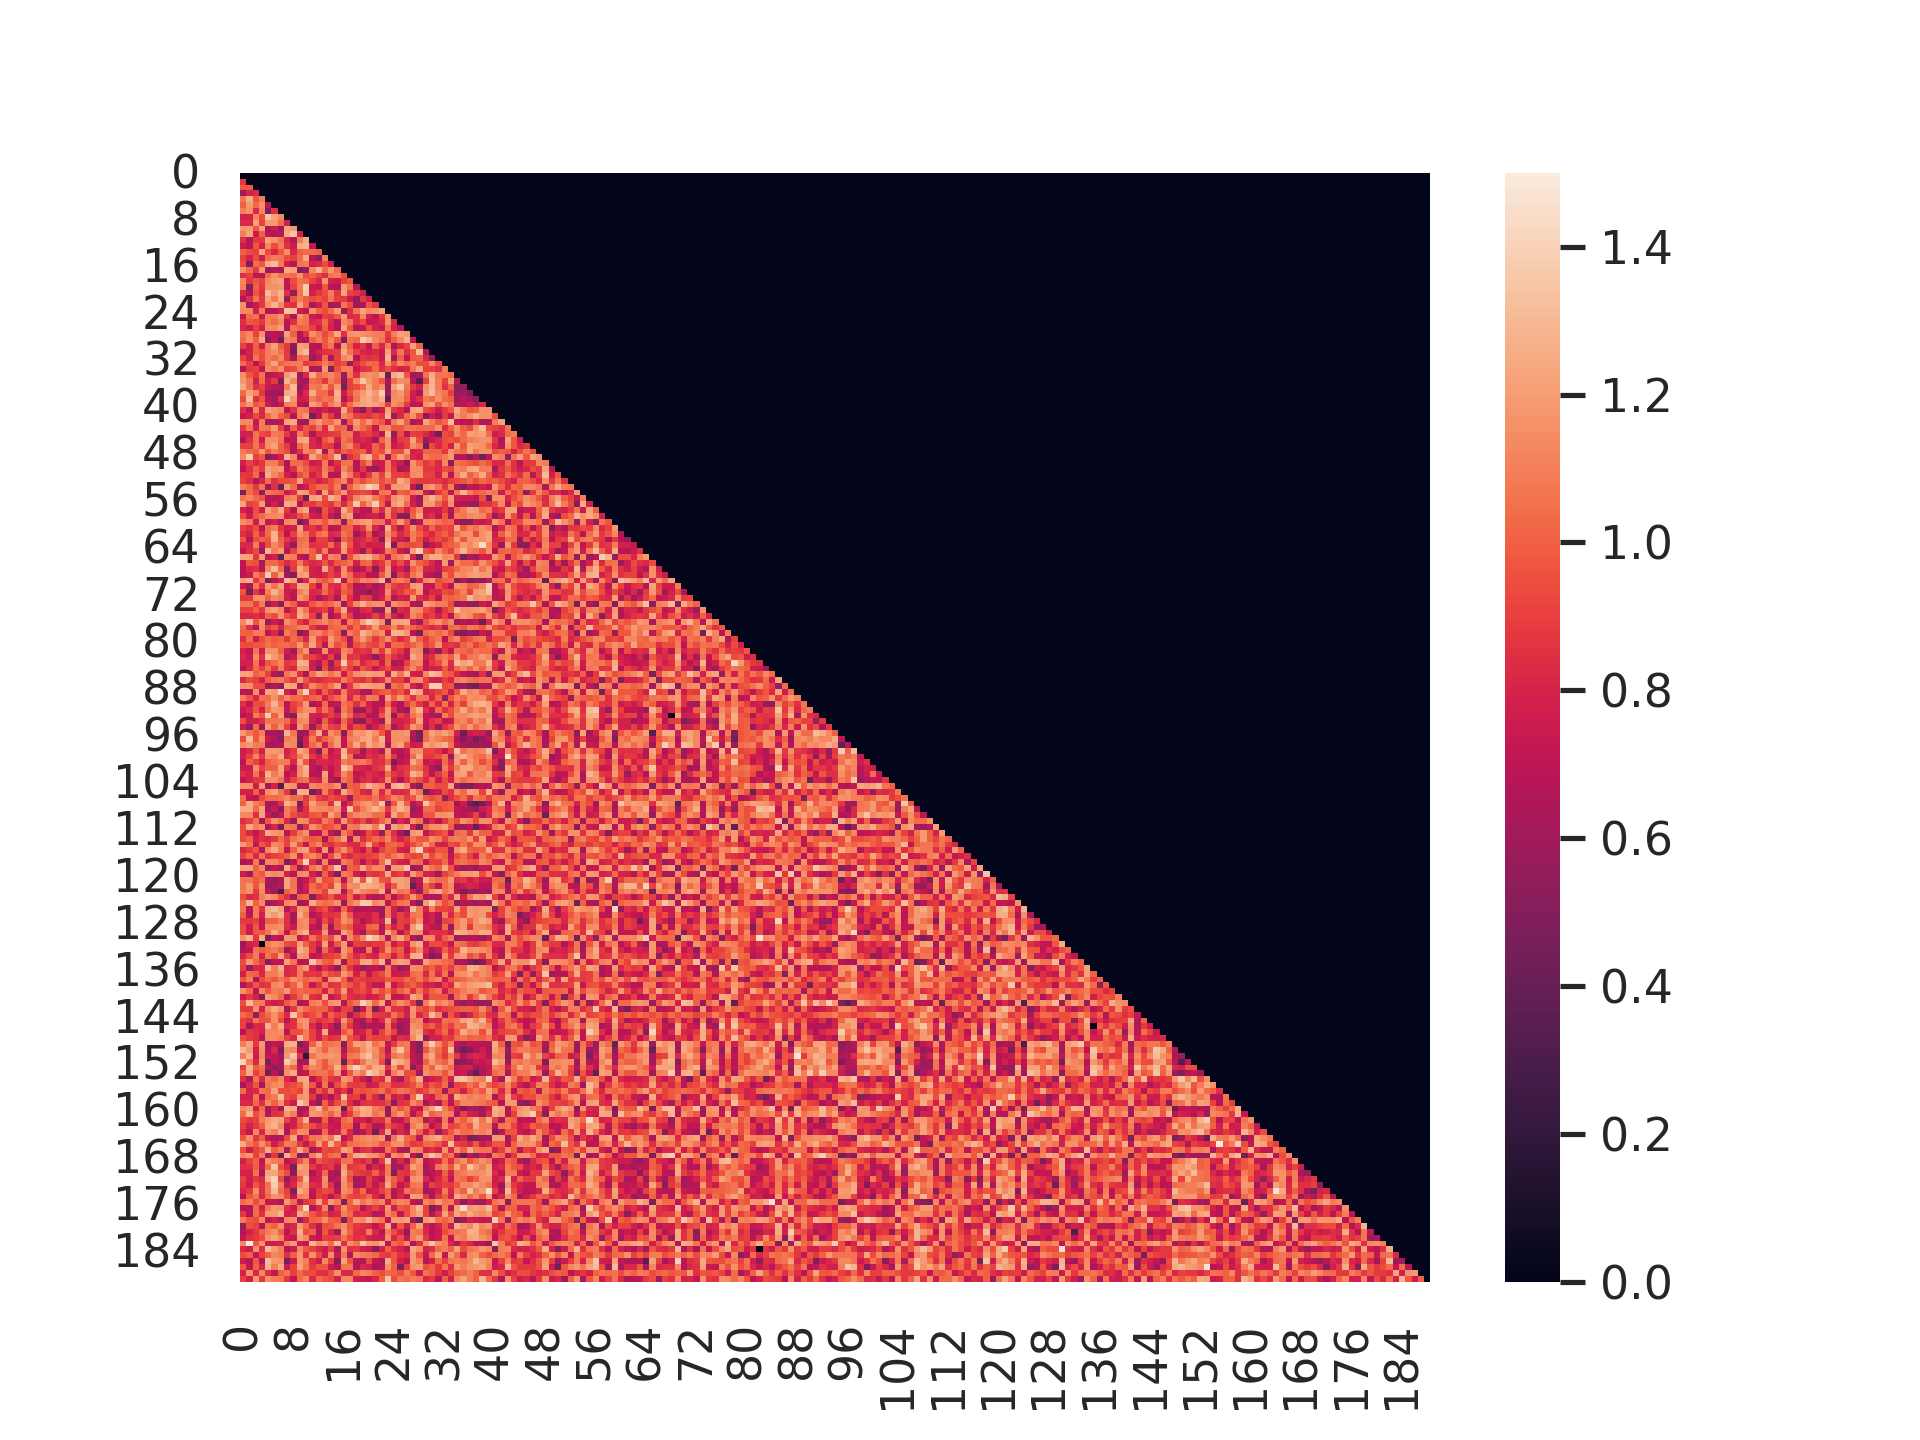
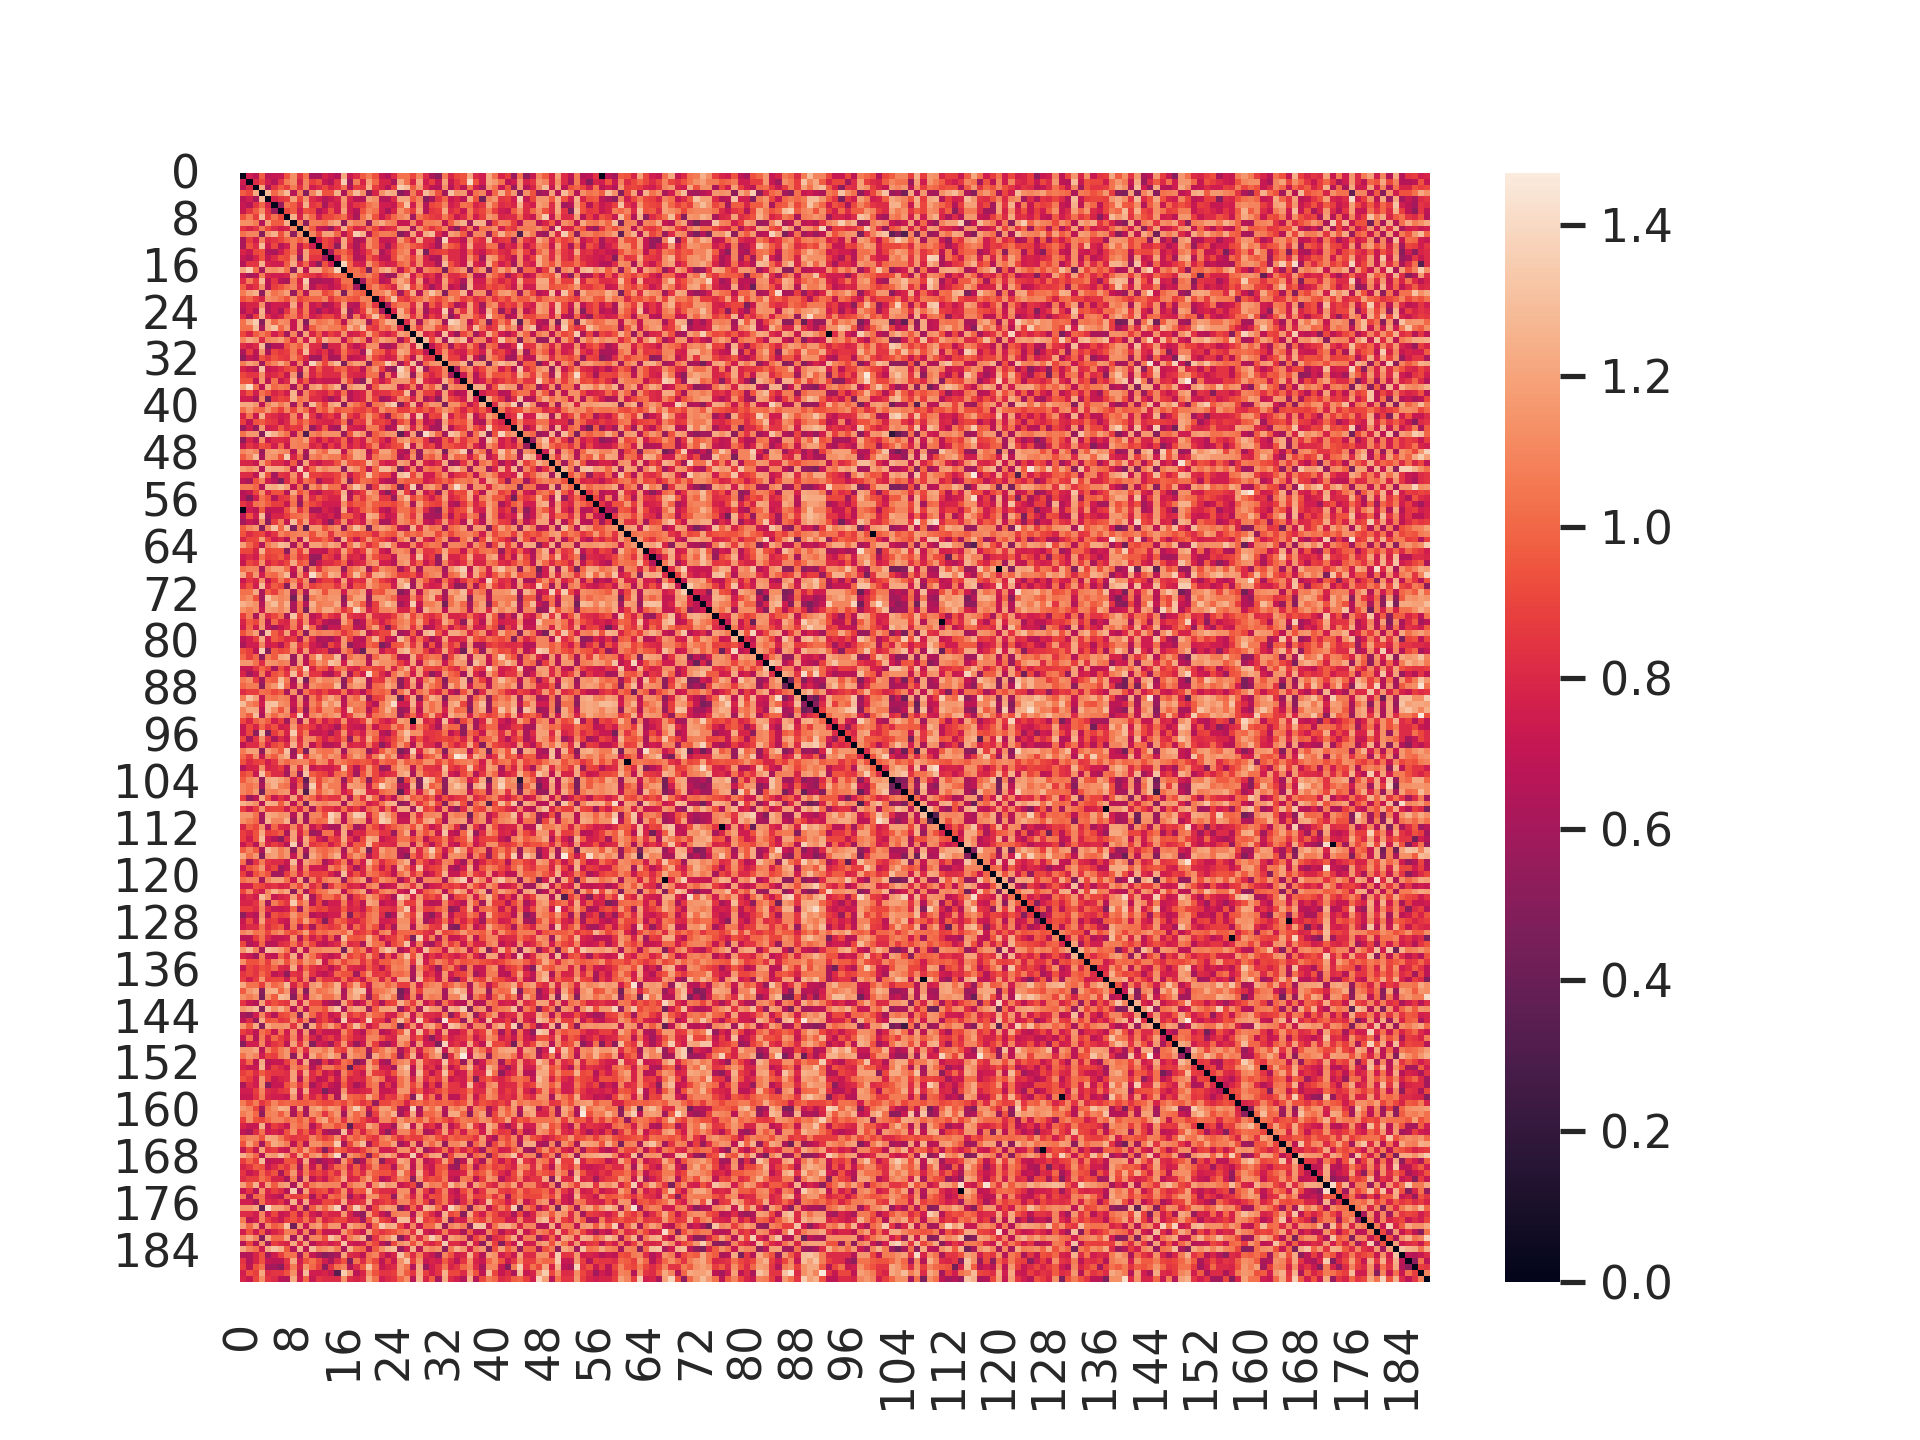
need to collect results dist expander

diff --git a/dist_expander/dist_expander.py b/dist_expander/dist_expander.py
@@ -93,14 +93,26 @@ class DistExpander:
     def run(self):
         for iter in range(self.max_iter):
             for i in range(self.partitions):
-                for node_idx in range(self.chunks[i]):
+                for node_idx in self.chunks[i].tolist():
                     # broadcast previous label distribution to all neigh
-                    pass
+                    node_i = self.graph.node_dict[node_idx]
+                    node_i.m_vl= self.mu_1 * self.graph.s[node_idx, node_idx] + self.mu_3
+                    for neigh in self.graph.edge_dict[node_i]:
+                        # Broadcast:
+                        neigh.neighbor_distrib[node_i] = self.graph.y_hat[node_idx]
+                        # Receive message:
+                        node_i.m_vl += self.mu_2 * self.graph.weights[node_idx, neigh.id]
 
-                for node_idx in range(self.chunks[i]):
+                for node_idx in self.chunks[i].tolist():
                     # receive mu from neighbors u with corresponding
                     # message weights, process each message
-                    pass
+                    node_i = self.graph.node_dict[node_idx]
+                    for l in range(self.graph.m):
+                        self.graph.y_hat[node_idx, l] = 1./node_i.m_vl * \
+                                         (self.mu_1 * self.graph.s[node_idx, node_idx] * self.graph.y[node_idx, l]) + \
+                                         self.mu_3 / self.graph.m
+                        for neigh in self.graph.edge_dict[node_i]:
+                            self.graph.y_hat[node_idx, l] += self.mu_2 * node_i.neighbor_distrib[neigh][l]
 
 def build_first_graph(
                         data : NDArray,

diff --git a/dist_expander/graph.py b/dist_expander/graph.py
@@ -1,7 +1,7 @@
 import numpy as np
 from numpy import genfromtxt
 from helpers.bitset import BitSet
-from typing import Dict, Set, Tuple
+from typing import Dict, Set, Tuple, List
 from nptyping import NDArray, Float
 
 class Node:
@@ -10,6 +10,9 @@ class Node:
         self.id = None
         self.key : [BitSet, BitSet] = key
         self.value : NDArray = label
+        self.neighbor_distrib: Dict[Node, List[float]] = {}
+        self.neighbors = 0
+        self.m_vl = 0.0
 
 # This is an undirected graph
 class Graph:
@@ -30,7 +33,7 @@ class Graph:
         self.node_dict : Dict[int, Node] = {}
 
     def add_node(self, node : Node):
-        node.id = 'n_' + str(self.v)
+        node.id = self.v
         self.node_dict[self.v] = node
         self.edge_dict[node] = []
 
@@ -66,6 +69,8 @@ class Graph:
             self.edge_dict[node1] += [node2]
         if node1 not in self.edge_dict[node2]:
             self.edge_dict[node2] += [node1]
+        node2.neighbor_distrib[node1] = [0]*self.m
+        node1.neighbor_distrib[node2] = [0]*self.m
 
 if __name__ == '__main__':
     graph = Graph()

diff --git a/dist_expander/main.py b/dist_expander/main.py
@@ -45,8 +45,16 @@ if __name__ == '__main__':
         labels=y,
         percentage=0.0001,
         autoencoder=autoencoder)
+    ax = sns.heatmap(graph.weights)
+    plt.savefig('heat_map.png', dpi = 300)
 
-    de = DistExpander(graph=graph)
+    de = DistExpander(graph=graph,
+                      mu_1 = 1,
+                      mu_2 = 1,
+                      mu_3 = 1,
+                      partitions = 10,
+                      max_iter = 10
+                      )
     de.partition_graph()
-
+    de.run()
 
